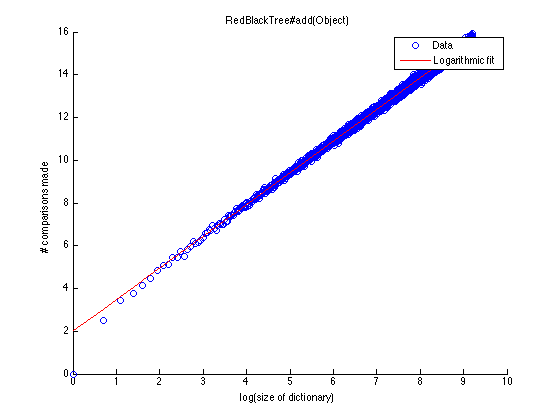
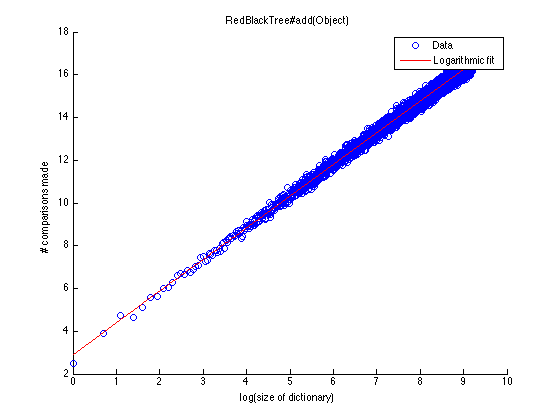
improve comparison code

diff --git a/report/design.tex b/report/design.tex
@@ -27,7 +27,7 @@ Initially I implemented basic functionality of a stratified tree \cite{stratifie
 
 A red-black tree and a B-Tree seem to be very similar in efficiency, especially since a red-black is simply a type of B-Tree, as implied by the red-black tree's original name: a symmetric binary B-Tree \cite{bayer}. It was challenging to find a significant advantage of red-black trees over B-Trees, however I chose to rule out B-Trees since they may waste space if a node is not full, whereas red-black trees do not have this disadvantage.
 
-Finally, I chose a red-black tree over an AVL tree after considering the usage of the dictionary described in the project: keeping track of users logged in to a web-service. I assume that in most cases, more users log on and off than search for each other, so \textit{insertions and deletions} are more common than \textit{lookups}. Since red-black trees have generally faster inserts and deletions \cite{clrs} - whereas AVL trees are faster at searches - this would be the most appropriate choice.
+Finally, I chose a red-black tree over an AVL tree after considering the usage of the dictionary described in the project: keeping track of users logged in to a web-service. I assume that in most cases, more users log on and off than search for each other, so \textit{insertions and deletions} are more common than \textit{lookups}. Since red-black trees have generally faster inserts and deletions \cite{clrs} - whereas AVL trees are faster at searches with slower modifications - a red-black tree would be the most appropriate choice for this scenario.
 
 \subsection{Implementation}
 
@@ -44,21 +44,42 @@ Originally I implemented \code{max()} and \code{min()} to simply call the helper
 
 Upon deletion, if the item being deleted is the minimum or the maximum, then the min/max is found by searching the tree again from the root. This is a minor cost when compared to the performance gains from constant time access to the extremum of the dictionary (and doesn't make the time complexity of \code{delete(Object)} any worse).
 
-\subsubsection{Insertion/Deletion} 
-The \code{add(Object)} and \code{delete(Object)} methods are where my implementation has strong similarities to the red-black tree detailed in CLRS.
+\subsubsection{Insertion/deletion} 
 
-\begin{figure}
+\begin{figure}[b]
 \centering
 \raisebox{-.5\height}{\includegraphics[width=0.25\textwidth]{resources/before}}
 $\implies$
 \raisebox{-.5\height}{\includegraphics[width=0.25\textwidth]{resources/after}}
-\caption{Inserting characters \textit{a} to \textit{m} into the red-black tree, and then deleting the root \textit{d}. Note that in both cases, the height $h = 5$ and for a dictionary with 12-13 nodes the height bound is $h \leq 2\log_2(13+1) \approx 7$ which is satisfied by both structures.}
+\caption{Inserting characters \textit{a} to \textit{m} into the red-black tree, and then deleting the root \textit{d}. Note that in both cases, the height $h = 5$ and for a dictionary with 12-13 nodes the height bound is $h \leq 2\log_2(12+1) \approx 7$ which is satisfied by both structures.}
 \end{figure}
+
+The \code{add(Object)} and \code{delete(Object)} methods are where my implementation has strong similarities to the red-black tree detailed in CLRS.
+
+The \code{add(Object)} method creates a new node and calls the \code{insert(Node)} method, which simply finds the appropriate location for the new node, inserts it there, colours it red, and then restores the red-black tree properties using \code{fixInsert(Node)}.
+
+The \code{delete(Object)} method first locates the node to delete using a basic tree search, and replaces it with one of its children if necessary. Then it calls \code{fixDelete(Node)} to restore any red-black tree properties that may have been violated.
+
+Since detailing how red-black tree insertion and deletion work would take more space than I have room for in this report, I will instead detail some implementation decisions used in regards to \code{add} and \code{delete} (the add- and delete-related code is commented in the \code{TreeIterator} class).
+
+I chose to use a sentinel node \code{nil} for inserting and deleting, rather than null pointers. This is suggested by CLRS, and it has the advantage of not having to consider exceptional cases as frequently - instead of having to avoid dealing with null as a separate case, the \code{nil} node can be treated as any other node and have its \code{parent}, \code{left}, and \code{right} fields take on arbitrary values.
+
+I felt one disadvantage to my insertion and deletion related code is that there is a lot of symmetrical/repeated code, that deals with the same case, but having every reference to a `left' child replaced with a `right' child, and vice versa. In development I was unable to find a clean way that would enable me to abstract this to deal with both left and right cases.
 
 \subsubsection{Iteration}
 
-With the methods above, the iterator was quite simple to implement. The iterator constructor takes in a start node, stores a reference to that start node in an instance variable, and then on each call to \code{next()}, `increments' the node by replacing it with its successor (using \code{successor(Node)}) and returns the previous value.
+In implementing the above methods, I tried to `modularise' my code as much as possible - that is, for example, instead of putting the deletion code inside the public \code{delete(Object)} method, I extracted it into a separate \code{delete(Node)} method. This gave me the advantage of being able to easily implement the iterator in a short amount of time, since I could rely on \code{successor(Node)} and \code{delete(Node)} to perform all operations needed by the \code{TreeIterator} class.
+
+The iterator constructor takes in a start node, stores a reference to that start node in an instance variable, and then on each call to \code{next()}, `increments' the node by replacing it with its successor (using \code{successor(Node)}) and returns the previous value.
 
 To implement \code{Iterator\#delete()}, I also stored a reference to the last node returned by \code{next()}. On deletion, I simply call the \code{delete(Node)} method in the enclosing \code{RedBlackTree} class, and then set \code{last} to the \code{nil} sentinel. Setting this field to \code{nil} also works as a check to ensure that the iterator state is valid - if \code{last} is \code{nil}, then we know that either \code{next()} hasn't been called yet or \code{last} has already been deleted. In this case, I throw an \code{IllegalStateException}.
 
 Ensuring the iterator is fail-fast is also implemented in a fairly simple way - in the \code{RedBlackTree} class, a field \code{operations} keeps track of the total number of successful insertions and deletions on the dictionary. In the constructor of \code{TreeIterator}, this number is recorded. Then, each time a method is called on the iterator class, the two numbers are compared - if the number of operations on the tree is not the same as when the iterator was constructed, then a \code{ConcurrentModificationException} is immediately thrown.
+
+\subsubsection{Logging}
+
+Each action made on the dictionary will cause a new line to be appended to the log string. \code{getLogString()} will return this string and clear the log.
+
+Each line of the log string reports the name of the method called, the value of the argument if applicable, and the number of comparisons used for that method.
+
+Note that an assumption I have made in development is that the number of comparisons is the number of calls to \code{compareTo}, plus, in general, the number of significant colour comparisons (e.g. in \code{fixInsert(Node)} the number of times the parent node's colour is checked) and significant reference equality checks (e.g. moving down the tree in the \code{minimum(Node)} method.

diff --git a/report/analysis.tex b/report/analysis.tex
@@ -4,7 +4,7 @@
 
 This section will detail the time complexity of each method.\\
 
-\begin{table}[!htbp]
+\begin{table}[b]
 \centering
 \begin{tabular}[t]{| l | l |}
 	\hline
@@ -102,38 +102,13 @@ This section gives experimental data on the efficiency of the implementation. Th
 
 For demonstration of experimental correctness, refer to the JUnit tests which can be found in the \code{/test/java/DictionaryTest.java} file. JUnit 4.12 was used, and all tests passed at the time of project submission.
 
-Experimental data was obtained by repeatedly running a given method and averaging the result. Each run, the elements are randomly shuffled before being inserted into the dictionary to allow for various internal structures. MATLAB R2014a was used for data visualisation in the figures below.
+Experimental data was obtained by repeatedly running a given method and averaging the result. Each run, the elements are randomly shuffled before being inserted into the dictionary to allow for various internal structures. MATLAB R2014a was used for data visualisation in the figures for \code{add}, \code{delete} and \code{contains}.
 
-\subsubsection{Summary}
 For \code{add}, \code{delete} and \code{contains}, plot data was averaged over 100 trials. Each trial recorded the number of comparisons made on dictionaries of size ranging from 0 to 10,000.
 
 Plots of the growth of the number of comparisons for adding, deleting and searching are below. Both linear-linear and log-linear graphs are provided to demonstrate the logarithmic growth of the functions.
 
-For the other methods required by the \code{Dictionary} interface, the average number of comparisons made on a 10,000-element dictionary is given in the table below. These results were averaged over 100 trials.
-
-For all tests, a new dictionary was created each time and the 10,000 elements were inserted in random order. This allows for a range of different possible tree structures to even out any possible biases in any individual trial.
-
-\begin{figure}[!htbpp]
-    \centering
-    \includegraphics[width=0.49\textwidth]{resources/add}
-    \includegraphics[width=0.49\textwidth]{resources/add_log}
-    \caption{The number of comparisons made when adding a random distinct element to a dictionary of size n (linear and log-linear scale)}
-
-\end{figure}
-
-\begin{figure}[!htbp]
-    \centering
-    \includegraphics[width=0.49\textwidth]{resources/del}
-    \includegraphics[width=0.49\textwidth]{resources/del_log}
-    \caption{The number of comparisons made when deleting a random element from a dictionary of size n (linear and log-linear scale)}
-\end{figure}
-
-\begin{figure}[!htbp]
-    \centering
-    \includegraphics[width=0.49\textwidth]{resources/search}
-    \includegraphics[width=0.49\textwidth]{resources/search_log}
-    \caption{The number of comparisons made when searching for a random element in a dictionary of size n (linear and log-linear scale)}
-\end{figure}
+For the other methods required by the \code{Dictionary} interface, the average number of comparisons made on a 10,000-element dictionary is given in the table below. These results were averaged over 100 trials. For all tests, a new dictionary was created each time and the 10,000 elements were inserted in random order. This allows for a range of different possible tree structures to even out any possible biases in any individual trial.
 
 \begin{table}[!htbp]
 \centering
@@ -142,17 +117,17 @@ For all tests, a new dictionary was created each time and the 10,000 elements we
 	\textbf{Method} & \multicolumn{2}{c |}{\textbf{Comparisons}} \\ \hline
 	& \textbf{Item in dictionary} & \textbf{Item not in dictionary} \\ \hline
 	\code{isEmpty()} & \multicolumn{2}{l |}{0.0}  \\ \hline
-	\code{contains(Object)} & 12.6 & 13.3 \\ \hline
+	\code{contains(Object)} & 12.8 & 13.2 \\ \hline
 	\code{hasPredecessor(Object)} & \multicolumn{2}{l |}{1.0} \\ \hline
 	\code{hasSuccessor(Object)} & \multicolumn{2}{l |}{1.0}  \\ \hline
-	\code{predecessor(Object)} & 13.5 & 13.2 \\ \hline
-	\code{successor(Object)} & 13.5 & 13.3 \\ \hline
+	\code{predecessor(Object)} & 14.3 & 13.6 \\ \hline
+	\code{successor(Object)} & 14.1 & 14.0 \\ \hline
 	\code{min()} & \multicolumn{2}{l |}{0.0}  \\ \hline
 	\code{max()} & \multicolumn{2}{l |}{0.0}  \\ \hline
-	\code{add(Object)} & 12.5 & 15.3 \\ \hline
-	\code{delete(Object)} & 12.5 & 13.4 \\ \hline
+	\code{add(Object)} & 12.8 & 15.3 \\ \hline
+	\code{delete(Object)} & 13.4 & 13.1 \\ \hline
 	\code{iterator()} & \multicolumn{2}{l |}{0.0} \\ \hline
-	\code{iterator(Object)} & 12.4 & 13.2\\ \hline
+	\code{iterator(Object)} & 12.9 & 14.1 \\ \hline
 	\code{toString()} & \multicolumn{2}{l |}{0.0} \\
 	\hline
 \end{tabular}
@@ -160,3 +135,25 @@ For all tests, a new dictionary was created each time and the 10,000 elements we
 \end{table}
 
 Table 3 is consistent with the analysis section. The constant time methods take 0 or 1 comparisons. \code{contains(Object)} takes slightly longer if the element is not in the dictionary (since it has to search down the full height of the tree). \code{add(Object)} takes around 2-3 comparisons more if the item is not already in the dictionary, since it also needs to check if it is necessary to update the \code{min}/\code{max} fields. \code{delete(Object)} takes more comparisons if the element is not in the dictionary, for the same reason as \code{contains(Object)}.
+
+\begin{figure}[!htbpp]
+    \centering
+    \includegraphics[width=0.49\textwidth]{resources/add}
+    \includegraphics[width=0.49\textwidth]{resources/add_log}
+    \caption{The number of comparisons made when adding a random distinct element to a dictionary of size \textit{n} (linear and log-linear scale)}
+
+\end{figure}
+
+\begin{figure}[!htbp]
+    \centering
+    \includegraphics[width=0.49\textwidth]{resources/del}
+    \includegraphics[width=0.49\textwidth]{resources/del_log}
+    \caption{The number of comparisons made when deleting a random element from a dictionary of size \textit{n} (linear and log-linear scale)}
+\end{figure}
+
+\begin{figure}[!htbp]
+    \centering
+    \includegraphics[width=0.49\textwidth]{resources/search}
+    \includegraphics[width=0.49\textwidth]{resources/search_log}
+    \caption{The number of comparisons made when searching for a random element in a dictionary of size \textit{n} (linear and log-linear scale)}
+\end{figure}

diff --git a/src/main/java/RedBlackTree.java b/src/main/java/RedBlackTree.java
@@ -62,7 +62,7 @@ public class RedBlackTree<E extends Comparable<E>> implements Dictionary<E> {
      * each method implemented from  the dictionary interface, to set this
      * variable back to zero.
      */
-    private int comparisons;
+    public int comparisons;
 
     /**
      * An integer to keep track of the total number of modifications on
@@ -493,6 +493,7 @@ public class RedBlackTree<E extends Comparable<E>> implements Dictionary<E> {
         if (node.right != nil) return minimum(node.right);
         Node parent = node.parent;
         while (parent != nil && node == parent.right) {
+            ++comparisons;
             node = parent;
             parent = parent.parent;
         }
@@ -516,6 +517,7 @@ public class RedBlackTree<E extends Comparable<E>> implements Dictionary<E> {
         if (node.left != nil) return maximum(node.left);
         Node parent = node.parent;
         while (parent != nil && node == parent.left) {
+            ++comparisons;
             node = parent;
             parent = parent.parent;
         }
@@ -684,6 +686,7 @@ public class RedBlackTree<E extends Comparable<E>> implements Dictionary<E> {
     private void fixInsert(Node node) {
         //continue until the parent is black
         while (node.parent.color == Node.COLOUR_RED) {
+            ++comparisons;
             Node uncle;
             if (node.parent == node.parent.parent.left) {
                 //set the uncle to be the right child
@@ -816,6 +819,7 @@ public class RedBlackTree<E extends Comparable<E>> implements Dictionary<E> {
      */
     private void fixDelete(Node node) {
         while (node != root && node.color == Node.COLOUR_BLACK) {
+            ++comparisons;
             if (node == node.parent.left) {
                 Node sibling = node.parent.right;
                 if (sibling.color == Node.COLOUR_RED) {
@@ -919,7 +923,10 @@ public class RedBlackTree<E extends Comparable<E>> implements Dictionary<E> {
      * @return the maximum node in the subtree
      */
     private Node maximum(Node node) {
-        while (node.right != nil) node = node.right;
+        while (node.right != nil) {
+            ++comparisons;
+            node = node.right;
+        }
         return node;
     }
 
@@ -929,7 +936,10 @@ public class RedBlackTree<E extends Comparable<E>> implements Dictionary<E> {
      * @return the minimum node in the subtree
      */
     private Node minimum(Node node) {
-        while (node.left != nil) node = node.left;
+        while (node.left != nil) {
+            ++comparisons;
+            node = node.left;
+        }
         return node;
     }
 

diff --git a/report/report.tex b/report/report.tex
@@ -9,19 +9,23 @@
 \usepackage[margin=2.5cm]{geometry}
 \usepackage{hyperref}
 \usepackage{color}
+\usepackage{titlesec}
+
+\titlespacing\subsubsection{0pt}{6pt plus 4pt minus 2pt}{0pt plus 2pt minus 2pt}
 
 \bibliography{bib/bib}
 
 \newcommand{\code}{\texttt}
 
-\title{CITS2200 Project - Dictionary}
+\title{\vspace{-5ex}CITS2200 Project - Dictionary}
 \author{Samuel Marsh\\
 	\small 21324325
 }
+\date{}
 
 \begin{document}
 \maketitle
-
+\vspace{-4ex}
 % DESIGN SECTION
 \input{design}
 
